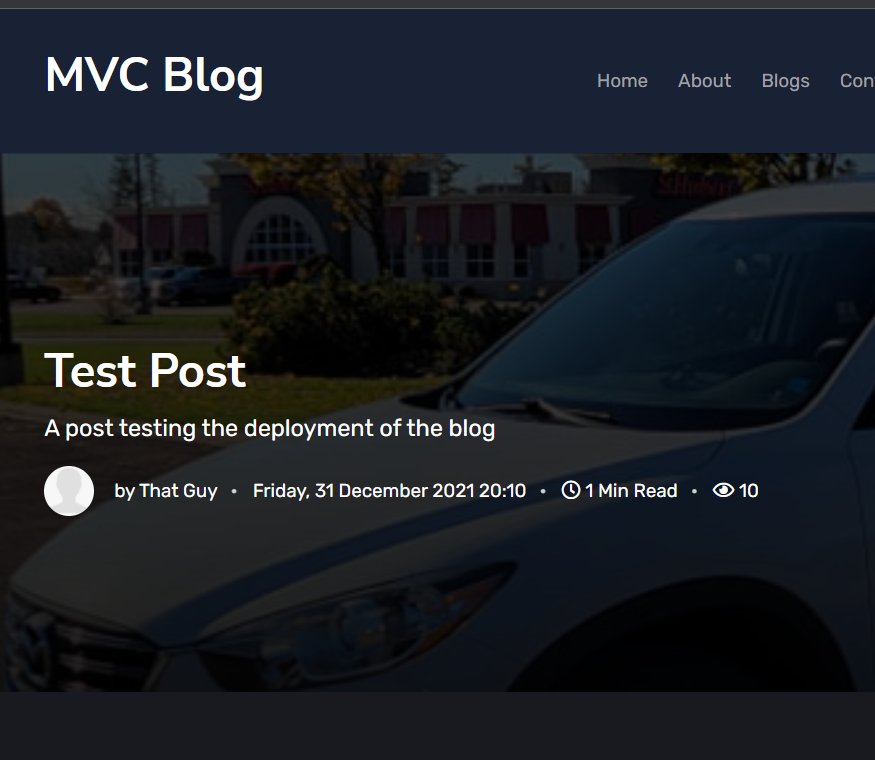
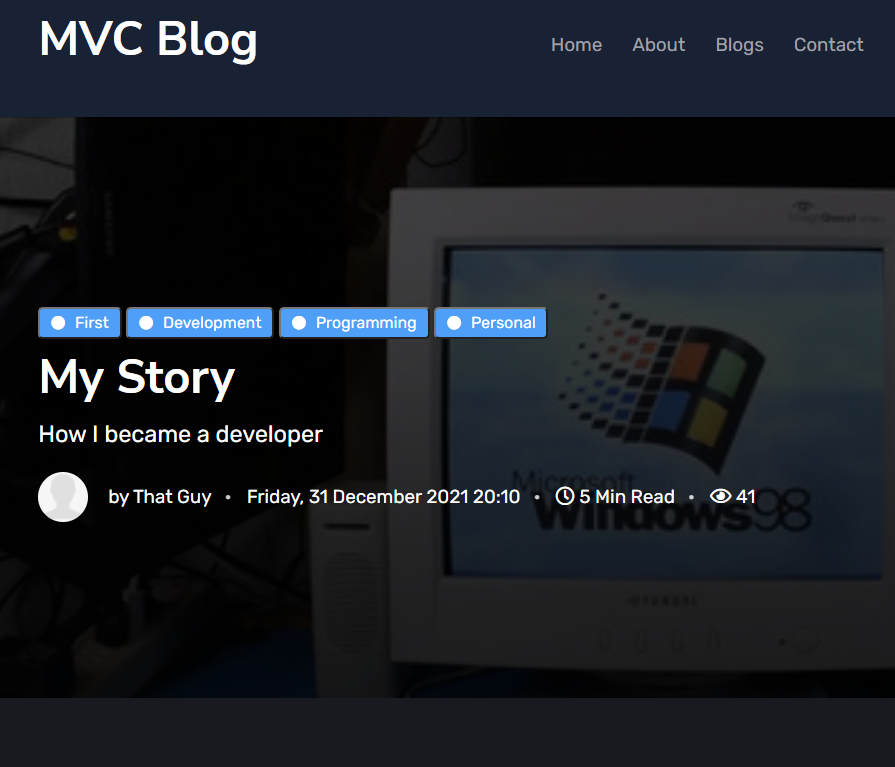
Update Blog entry

diff --git a/index.html b/index.html
@@ -531,11 +531,11 @@
               <div class="row justify-content-center">
                 <!-- Single post-->
                 <div class="col-12 col-sm-8 col-lg-4">
-                  <div class="card single-post"><a class="post-img" href="https://ryans-mvcblog.herokuapp.com/BlogPosts/test-post"><img class="card-img-top" src="img/portfolio/mvcblog.PNG" alt="Blog post"><span class="content-date">31 Dec, 21</span></a>
-                    <div class="card-body post-content"><a href="https://ryans-mvcblog.herokuapp.com/BlogPosts/test-post">
-                        <h5 class="card-title content-title">Test Post</h5>
+                  <div class="card single-post"><a class="post-img" href="http://ryans-mvcblog.herokuapp.com/BlogPosts/my-story"><img class="card-img-top" src="img/portfolio/mvcblog.PNG" alt="Blog post"><span class="content-date">31 Dec, 21</span></a>
+                    <div class="card-body post-content"><a href="http://ryans-mvcblog.herokuapp.com/BlogPosts/my-story">
+                        <h5 class="card-title content-title">My Story</h5>
                       </a>
-                      <p class="card-text content-description">This is a test post</p>
+                      <p class="card-text content-description">How I became a developer</p>
                     </div>
                   </div>
                 </div>
